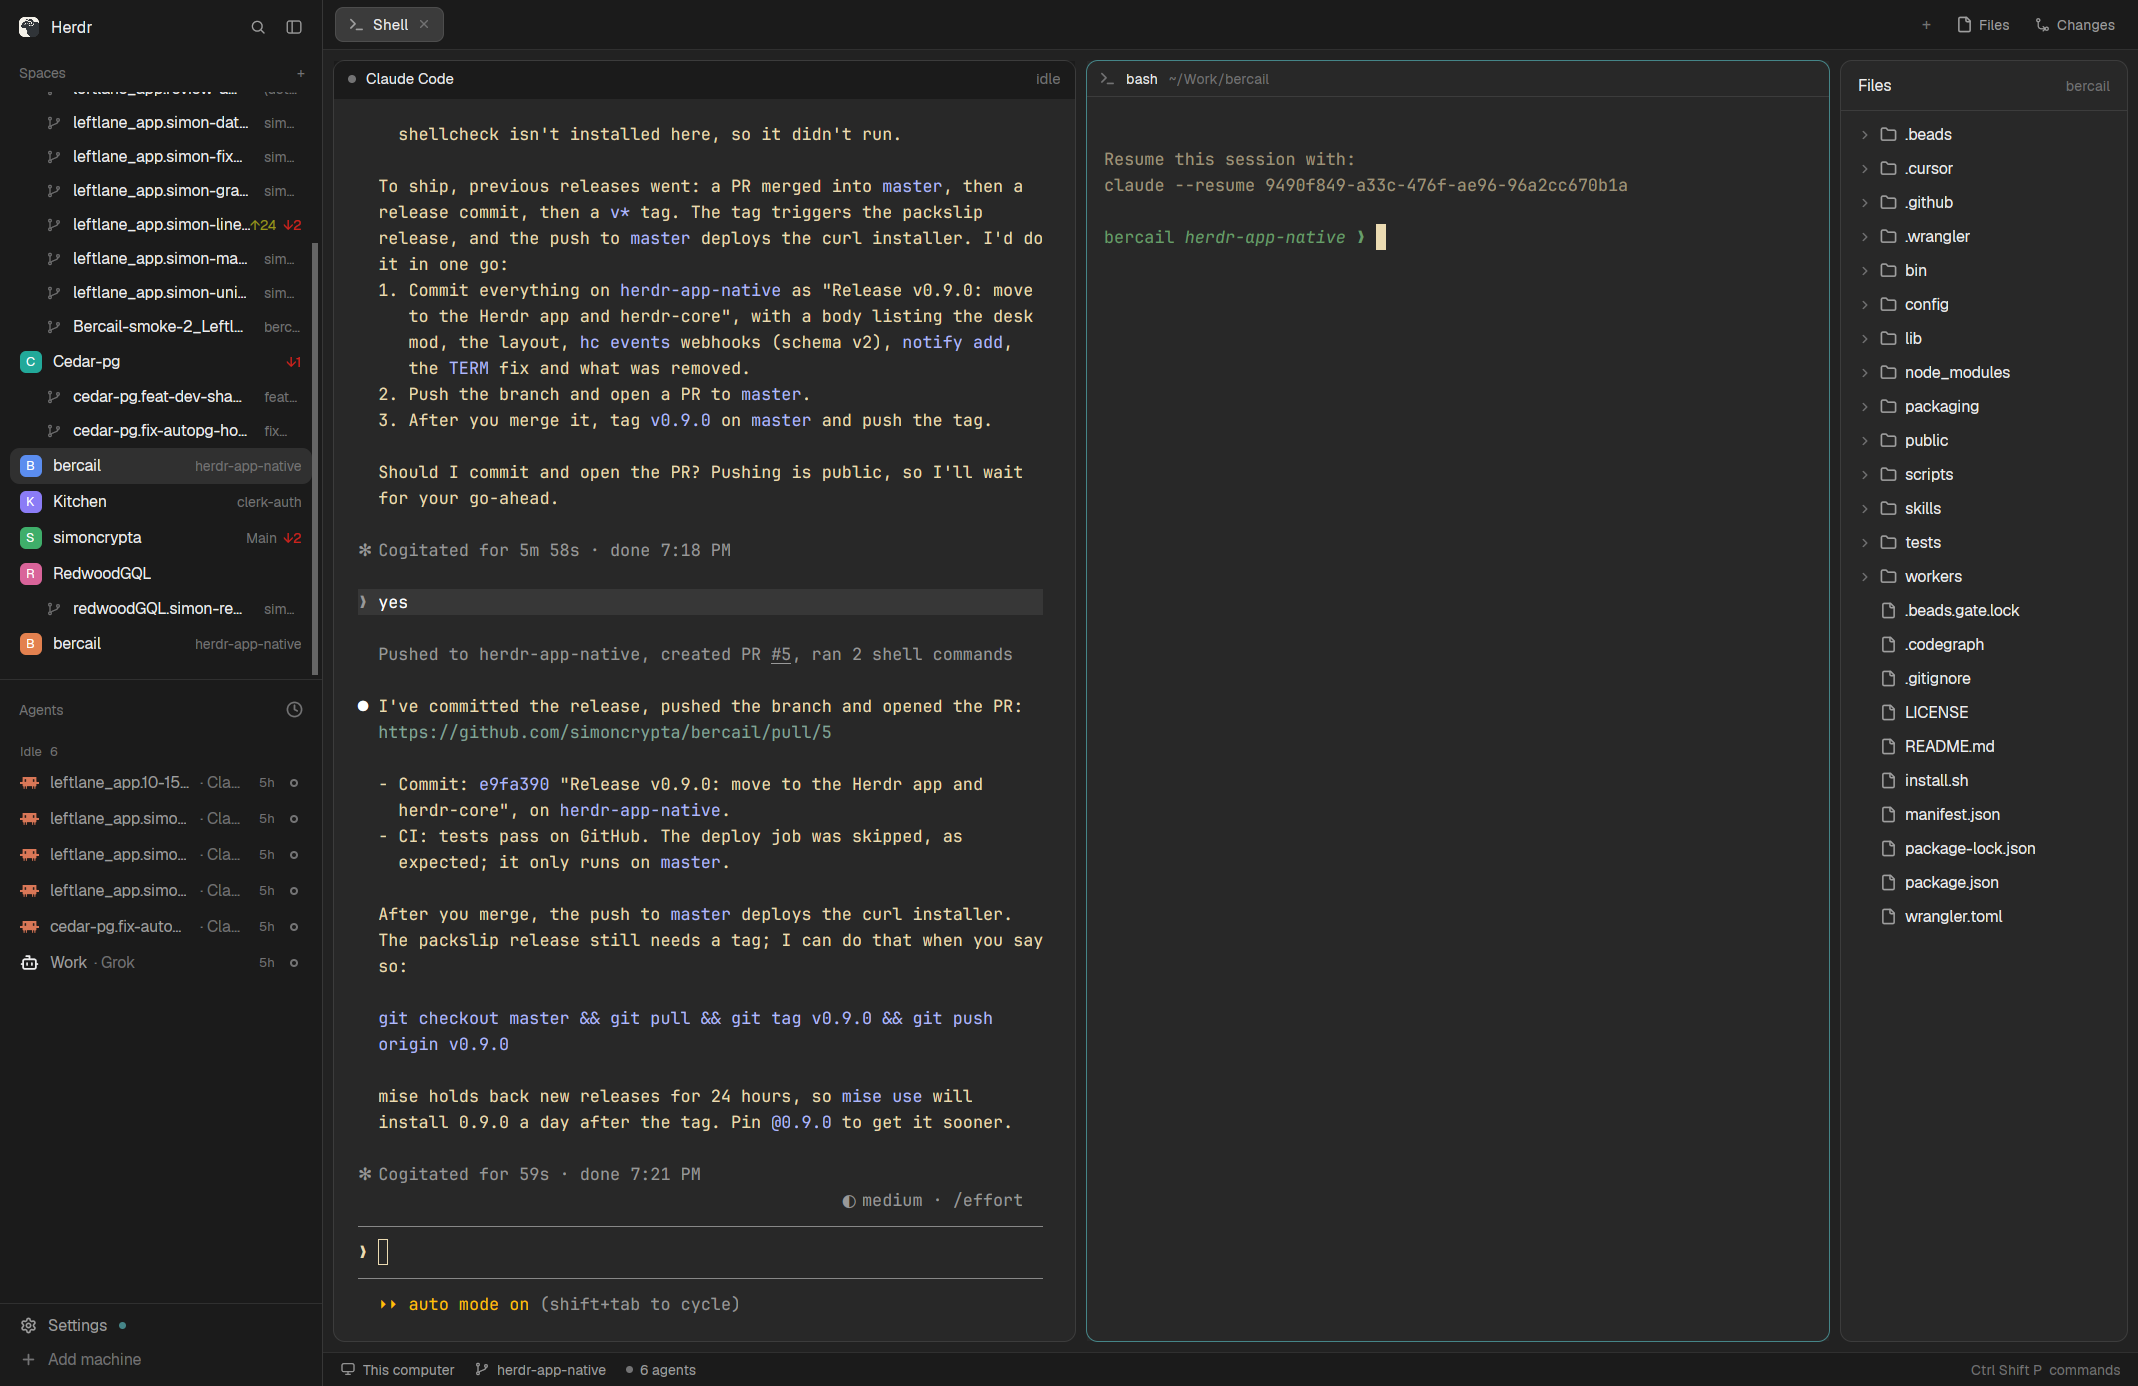
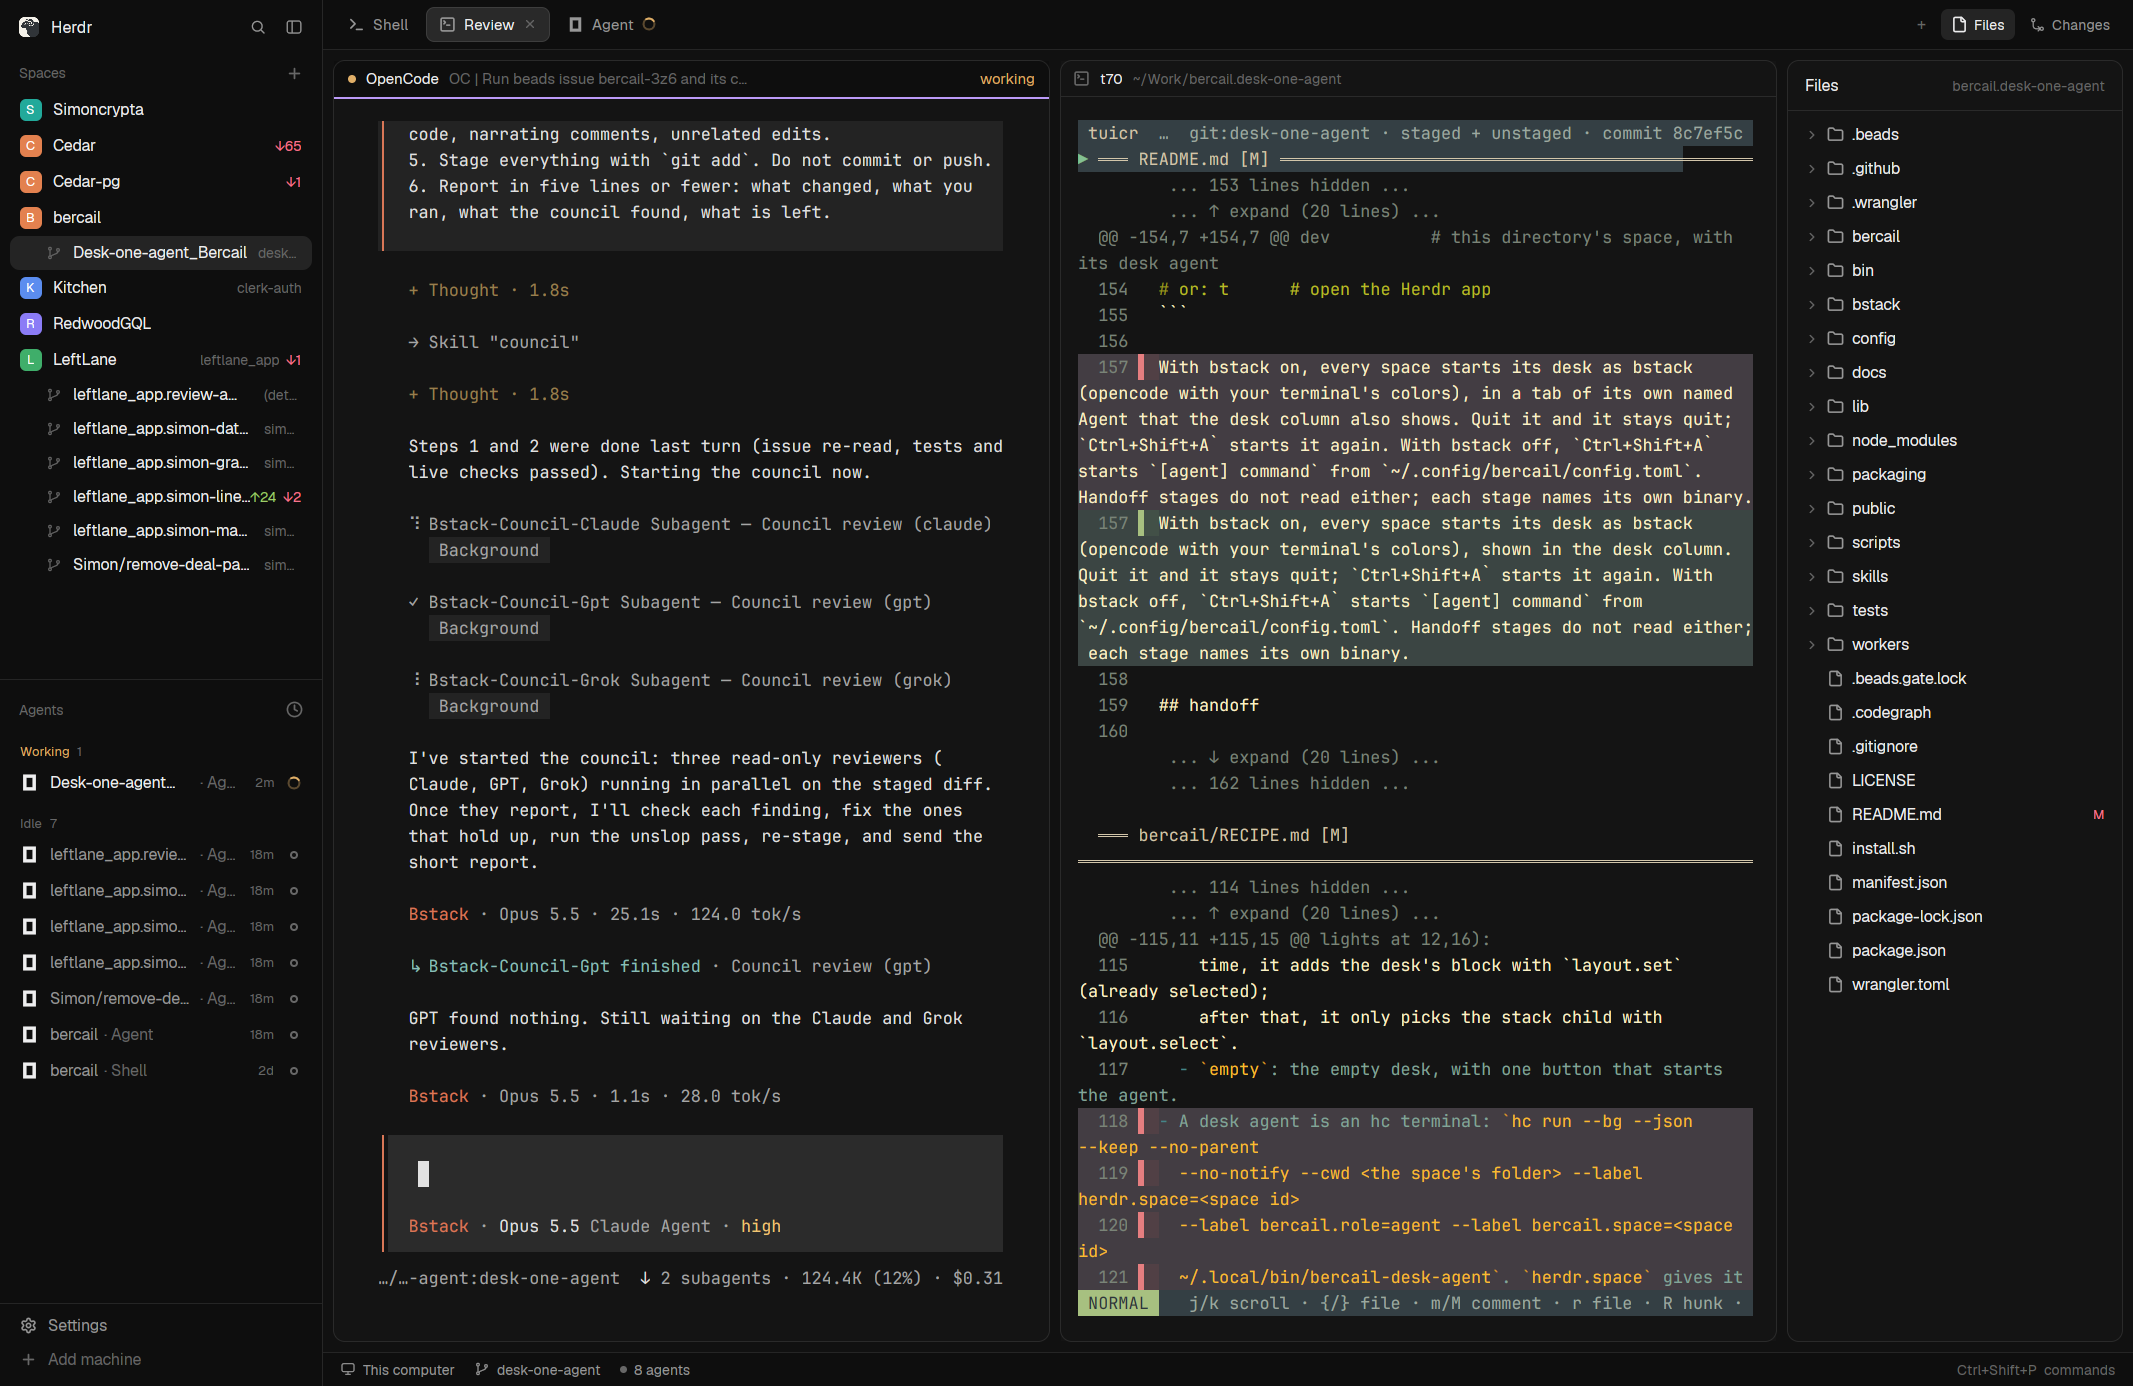
docs(recipe): use the README screenshot and the repo description

diff --git a/bercail/RECIPE.md b/bercail/RECIPE.md
@@ -1,11 +1,6 @@
 # bercail
 
-Herdr's layout with a desk: each space gets one sticky agent in its own column
-on the left of the work area, under the tab bar (Shell, Review), beside the
-shown tab's panes and a files/changes panel on the right. Tabs come and go around the desk; the agent
-stays. When the desk agent finishes with uncommitted changes, a Review tab
-opens on them by itself. It is the app half of
-[bercail](https://github.com/simoncrypta/bercail), and works on its own too.
+Built for the Shep Grok bot: One worktree per space, a desk agent beside your tabs, review when it's done.
 
 ![bercail](preview.png)
 
